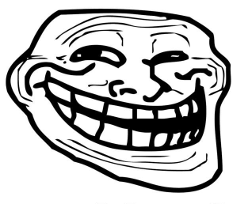
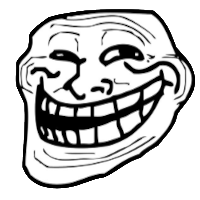
Use trollface glyph for spurious deadlock state of philosopher system

diff --git a/style/preamble-font.tex b/style/preamble-font.tex
@@ -28,3 +28,249 @@
 ]
 
 \DeclareMathAlphabet{\mathcal}{OMS}{cmsy}{m}{n}
+
+
+\newcommand{\trollface}{\resizebox{1.3\fontcharht\font`X}{1.3\fontcharwd\font`X}{%
+\begin{tikzpicture}[y=1pt, x=1pt,yscale=-1, inner sep=0pt, outer sep=0pt]
+\path[fill=black,even odd rule] (186.5230,42.6290) .. controls
+  (181.3770,46.8210) and (177.2520,52.0360) .. (177.1840,61.3090) .. controls
+  (173.4610,53.8470) and (177.9210,43.3950) .. (186.5230,42.6290) -- cycle;
+\path[fill=black,even odd rule] (123.9480,53.8360) .. controls
+  (131.6610,49.6690) and (133.9770,68.5560) .. (129.5520,73.4490) .. controls
+  (130.1610,64.4350) and (129.6880,56.5020) .. (123.9480,53.8360) -- cycle;
+\path[fill=black,even odd rule] (258.4390,84.6570) .. controls
+  (251.9670,92.1160) and (243.0990,85.7280) .. (234.1560,84.6570) .. controls
+  (214.8650,82.3460) and (196.3430,90.9360) .. (182.7880,96.7990) .. controls
+  (152.3050,81.2930) and (190.8780,59.8650) .. (221.0810,61.3090) .. controls
+  (241.5710,62.2870) and (255.3680,71.4410) .. (258.4390,84.6570) --
+  cycle(206.1380,68.7800) .. controls (196.6960,73.9690) and (181.3370,73.2430)
+  .. (180.9200,87.4590) .. controls (194.1550,88.2420) and (196.7990,78.4330) ..
+  (209.8730,79.0540) .. controls (208.5950,75.6620) and (209.3090,70.2780) ..
+  (206.1380,68.7800) -- cycle(249.1000,80.9220) .. controls (248.1190,76.6100)
+  and (244.5910,74.8460) .. (238.8270,75.3180) .. controls (238.2690,81.1680)
+  and (246.1370,78.5920) .. (249.1000,80.9220) -- cycle;
+\path[fill=black,even odd rule] (135.1560,84.6570) .. controls
+  (139.6320,83.6130) and (143.7260,82.0440) .. (147.2980,84.6570) .. controls
+  (147.0140,91.5340) and (139.4010,91.0810) .. (135.1560,93.9970) .. controls
+  (135.1560,99.9120) and (135.1560,105.8270) .. (135.1560,111.7420) .. controls
+  (129.8970,116.4450) and (122.1800,118.6910) .. (118.3440,124.8180) .. controls
+  (121.4790,132.8890) and (127.0330,138.5440) .. (134.2210,142.5630) .. controls
+  (138.8510,142.3020) and (140.5480,137.0180) .. (145.4290,139.7610) .. controls
+  (138.6120,162.3790) and (120.0140,140.4880) .. (112.7400,131.3550) .. controls
+  (110.2100,132.5610) and (109.4200,135.5060) .. (105.2680,135.0910) .. controls
+  (105.7160,132.1530) and (103.9380,131.4400) .. (103.4000,129.4870) .. controls
+  (96.0960,131.2120) and (93.0790,137.2230) .. (83.7870,136.9590) .. controls
+  (100.7200,129.2980) and (112.9440,116.9280) .. (127.6830,107.0720) .. controls
+  (127.6830,102.7140) and (127.6830,98.3550) .. (127.6830,93.9970) .. controls
+  (115.4770,85.0330) and (89.1830,90.1570) .. (75.3810,82.7890) .. controls
+  (83.6980,60.8440) and (125.4950,70.6300) .. (135.1560,84.6570) --
+  cycle(88.4580,79.0540) .. controls (93.0320,80.8510) and (100.4610,79.8720) ..
+  (104.3350,78.1190) .. controls (99.7600,76.3220) and (92.3310,77.3020) ..
+  (88.4580,79.0540) -- cycle;
+\path[fill=black,even odd rule] (262.1750,78.1190) .. controls
+  (266.1280,76.3740) and (271.8460,80.8820) .. (278.0530,79.9870) .. controls
+  (278.0700,84.9570) and (269.8980,85.7630) .. (265.9110,83.7230) .. controls
+  (266.0380,81.0470) and (272.3220,84.5300) .. (272.4490,81.8550) .. controls
+  (269.2020,80.4330) and (264.6140,80.3510) .. (262.1750,78.1190) -- cycle;
+\path[fill=black,even odd rule] (71.6460,81.8550) .. controls
+  (48.4920,80.0360) and (22.9120,89.3230) .. (22.1460,111.7420) .. controls
+  (22.0350,114.9910) and (22.2010,122.2410) .. (24.9480,126.6850) .. controls
+  (29.3060,133.7360) and (40.2990,130.2490) .. (43.6270,139.7610) .. controls
+  (26.4310,135.6320) and (18.5280,125.8960) .. (20.2780,108.9400) .. controls
+  (22.7070,85.3990) and (45.7110,76.5680) .. (71.6460,81.8550) -- cycle;
+\path[fill=black,even odd rule] (335.0240,98.6670) .. controls
+  (328.5190,86.1820) and (314.4580,81.2520) .. (293.9290,82.7890) .. controls
+  (309.8870,79.1500) and (332.2580,83.1200) .. (335.0240,98.6670) -- cycle;
+\path[fill=black,even odd rule] (262.1750,87.4590) .. controls
+  (263.4210,84.8030) and (266.3280,88.1800) .. (267.7790,88.3940) .. controls
+  (266.4780,91.1060) and (263.1700,88.1290) .. (262.1750,87.4590) -- cycle;
+\path[fill=black,even odd rule] (219.2130,88.3940) .. controls
+  (228.9990,89.9850) and (233.5670,100.3980) .. (245.3640,101.4690) .. controls
+  (259.7920,102.7790) and (267.3080,92.6370) .. (279.9210,89.3270) .. controls
+  (314.2440,80.3190) and (342.0750,112.2860) .. (316.3460,139.7620) .. controls
+  (312.1960,130.4970) and (320.4280,125.8410) .. (319.1480,114.5440) .. controls
+  (317.6560,101.3880) and (305.0200,92.5910) .. (290.1950,94.9310) .. controls
+  (285.2060,95.7190) and (280.8230,101.1010) .. (275.2520,103.3370) .. controls
+  (255.1770,111.3950) and (219.5950,110.7840) .. (219.2130,88.3940) -- cycle;
+\path[fill=black,even odd rule] (45.4950,90.2610) .. controls
+  (42.3020,96.1040) and (28.5930,99.5050) .. (33.3530,116.4120) .. controls
+  (28.6240,112.2490) and (33.6510,103.5000) .. (32.4190,96.7990) .. controls
+  (36.9290,94.7710) and (41.1020,92.4060) .. (45.4950,90.2610) -- cycle;
+\path[fill=black,even odd rule] (84.7220,108.0070) .. controls
+  (88.8510,106.8440) and (89.8150,102.5150) .. (95.9300,103.3370) .. controls
+  (99.8760,115.4730) and (84.1750,115.7950) .. (72.5810,115.4790) .. controls
+  (71.5810,110.8750) and (69.6390,107.2120) .. (66.0430,105.2050) .. controls
+  (55.3470,104.1610) and (49.0010,107.4650) .. (39.8920,108.0080) .. controls
+  (44.8020,88.7320) and (76.0790,99.0260) .. (84.7220,108.0070) -- cycle;
+\path[fill=black,even odd rule] (313.5430,127.6200) .. controls
+  (308.5690,129.4390) and (304.6380,127.2380) .. (299.5340,126.6850) .. controls
+  (296.2380,129.2760) and (293.4220,135.3040) .. (295.7980,140.6950) .. controls
+  (283.8630,150.9330) and (275.9310,169.7570) .. (264.0430,182.7230) .. controls
+  (234.6970,214.7360) and (183.6470,228.5980) .. (117.4100,225.6860) .. controls
+  (95.9890,224.7450) and (71.0460,222.4130) .. (60.4380,211.6760) .. controls
+  (43.6320,194.6670) and (42.8320,141.9400) .. (57.6360,121.0810) .. controls
+  (59.0730,118.1590) and (57.2280,111.9560) .. (60.4380,110.8080) .. controls
+  (67.8970,113.3780) and (63.8270,124.2490) .. (66.0420,130.4210) .. controls
+  (70.6570,143.2850) and (96.3870,151.5800) .. (114.6080,153.7710) .. controls
+  (182.9370,161.9820) and (240.6520,126.1850) .. (285.5240,110.8080) .. controls
+  (286.8670,107.4810) and (286.4780,102.4220) .. (289.2600,100.5350) .. controls
+  (294.8400,102.4830) and (292.5530,107.1600) .. (294.8640,110.8080) .. controls
+  (299.9820,118.8930) and (312.2430,119.4850) .. (313.5430,127.6200) --
+  cycle(256.5710,133.2240) .. controls (256.5710,137.8940) and
+  (256.5710,142.5640) .. (256.5710,147.2340) .. controls (274.1010,144.2160) and
+  (289.2540,138.8220) .. (290.1940,119.2140) .. controls (274.7910,119.6880) and
+  (268.9450,129.7200) .. (256.5710,133.2240) -- cycle(57.6360,143.4970) ..
+  controls (59.9280,143.2360) and (61.9410,137.9240) .. (60.4380,136.9590) ..
+  controls (59.6630,139.2970) and (57.8790,140.6280) .. (57.6360,143.4970) --
+  cycle(205.2030,149.1020) .. controls (205.1680,155.3640) and
+  (207.5990,159.1590) .. (208.0050,164.9790) .. controls (223.7610,158.0080) and
+  (247.7210,159.2420) .. (249.1000,137.8940) .. controls (235.1800,138.6090) and
+  (220.1700,146.3200) .. (205.2030,149.1020) -- cycle(66.9760,166.8470) ..
+  controls (67.8590,159.9310) and (72.0280,150.7120) .. (67.9100,144.4320) ..
+  controls (64.8520,149.0080) and (57.2650,163.7120) .. (66.9760,166.8470) --
+  cycle(257.5050,174.3180) .. controls (259.8780,172.3290) and
+  (263.2370,170.8490) .. (265.9110,167.7800) .. controls (269.5100,163.6490) and
+  (276.6900,150.9880) .. (275.2510,150.9680) .. controls (264.4210,152.7880) and
+  (248.8670,162.0370) .. (257.5050,174.3180) -- cycle(77.2500,170.5820) ..
+  controls (81.8400,169.1510) and (85.3880,173.5910) .. (87.5240,171.5170) ..
+  controls (84.1720,165.9570) and (90.7970,162.3580) .. (90.3260,156.5740) ..
+  controls (84.8320,156.4640) and (82.4630,153.2290) .. (78.1840,151.9040) ..
+  controls (73.1060,155.9740) and (76.7130,164.2210) .. (77.2500,170.5820) --
+  cycle(195.8630,152.8370) .. controls (184.6230,155.6070) and
+  (172.2560,157.2490) .. (161.3060,160.3090) .. controls (161.3060,164.9790) and
+  (161.3060,169.6490) .. (161.3060,174.3190) .. controls (177.4140,175.4840) and
+  (188.1850,171.3110) .. (200.5330,168.7150) .. controls (199.4780,162.9210) and
+  (199.4950,156.0550) .. (195.8630,152.8370) -- cycle(94.0610,171.5170) ..
+  controls (102.0880,173.7640) and (111.3050,174.8210) .. (122.0800,174.3190) ..
+  controls (121.4640,169.8440) and (123.0400,164.0500) .. (122.0800,162.1770) ..
+  controls (113.6500,161.2670) and (103.9510,161.6260) .. (97.7970,158.4420) ..
+  controls (96.5510,162.7990) and (96.3510,168.2020) .. (94.0610,171.5170) --
+  cycle(131.4200,162.1770) .. controls (131.6440,167.0710) and
+  (129.1470,169.2430) .. (128.6180,173.3850) .. controls (135.5560,175.4760) and
+  (146.2990,173.7610) .. (154.7690,174.3190) .. controls (154.7690,169.6490) and
+  (154.7690,164.9790) .. (154.7690,160.3090) .. controls (145.9280,159.8740) and
+  (140.7430,163.0940) .. (131.4200,162.1770) -- cycle(211.7410,178.0550) ..
+  controls (210.4210,189.9590) and (217.7640,193.2010) .. (219.2130,202.3380) ..
+  controls (232.4160,197.1720) and (241.9620,188.3510) .. (252.8360,180.8570) ..
+  controls (247.5230,178.3850) and (247.9630,170.1630) .. (246.2980,164.0450) ..
+  controls (236.3020,170.2380) and (224.6830,174.8070) .. (211.7410,178.0550) --
+  cycle(168.7780,190.1960) .. controls (168.0510,199.3280) and
+  (170.0950,205.6890) .. (169.7120,214.4780) .. controls (187.7230,215.6780) and
+  (199.0090,210.1530) .. (211.7410,206.0730) .. controls (209.4850,196.8090) and
+  (203.6060,191.1700) .. (203.3350,179.9220) .. controls (193.1930,184.7240) and
+  (182.5080,188.9810) .. (168.7780,190.1960) -- cycle(66.0420,203.2710) ..
+  controls (65.9030,195.9380) and (62.2210,192.1490) .. (58.5700,188.3280) ..
+  controls (60.1730,194.1960) and (62.3150,199.5260) .. (66.0420,203.2710) --
+  cycle(83.7880,211.6770) .. controls (81.6570,203.8460) and (79.4550,196.0850)
+  .. (72.5800,192.9980) .. controls (72.0370,198.2100) and (75.3710,199.5460) ..
+  (75.3820,204.2050) .. controls (74.8020,207.4170) and (70.3580,206.0980) ..
+  (69.7780,207.0070) .. controls (73.0720,209.9390) and (78.5480,210.6890) ..
+  (83.7880,211.6770) -- cycle(133.2880,195.8000) .. controls (133.3440,203.8380)
+  and (136.3930,208.8840) .. (136.0900,217.2810) .. controls (144.8000,216.9630)
+  and (154.9630,218.0960) .. (162.2410,216.3460) .. controls (161.9570,212.0840)
+  and (160.6930,201.2210) .. (161.3070,192.9970) .. controls (152.8320,194.8520)
+  and (141.9890,197.0030) .. (133.2880,195.8000) -- cycle(92.1930,212.6110) ..
+  controls (95.7960,213.9890) and (99.2500,215.5160) .. (104.3350,215.4130) ..
+  controls (103.0850,209.1910) and (98.9260,205.8780) .. (98.7310,198.6010) ..
+  controls (93.8100,198.5410) and (91.8760,195.4940) .. (86.5890,195.7990) ..
+  controls (87.4560,202.1920) and (94.9240,205.5740) .. (92.1930,212.6110) --
+  cycle(106.2030,197.6680) .. controls (107.8940,204.6930) and
+  (112.1030,209.2020) .. (113.6750,216.3470) .. controls (118.0900,216.6280) and
+  (125.5740,218.7360) .. (129.5520,216.3470) .. controls (128.6800,203.5710) and
+  (121.5510,192.9510) .. (106.2030,197.6680) -- cycle;
+\path[fill=black,even odd rule] (197.7310,121.0820) .. controls
+  (198.7120,132.7370) and (196.2330,144.5570) .. (184.6560,140.6950) .. controls
+  (183.4110,132.5700) and (193.0760,132.9910) .. (191.1930,126.6850) .. controls
+  (189.4350,120.7980) and (181.5510,124.0340) .. (174.3820,121.0810) .. controls
+  (176.0420,109.8510) and (193.8450,115.8040) .. (197.7310,121.0820) -- cycle;
+\path[fill=black,even odd rule] (200.5330,115.4790) .. controls
+  (204.4700,115.3180) and (201.1740,117.5700) .. (200.5330,118.2810) .. controls
+  (203.9060,128.7760) and (224.3770,116.4100) .. (228.5530,125.7530) .. controls
+  (220.2110,119.9870) and (196.2170,130.8070) .. (200.5330,115.4790) -- cycle;
+\path[fill=black,even odd rule] (31.4850,117.3460) .. controls
+  (35.1880,120.4920) and (37.8990,124.6310) .. (42.6930,126.6860) .. controls
+  (37.0450,129.1980) and (31.9330,123.1410) .. (31.4850,117.3460) -- cycle;
+\path[fill=black,even odd rule] (180.9200,129.4870) .. controls
+  (180.7300,132.4100) and (181.5500,136.3430) .. (179.9860,137.8930) .. controls
+  (174.0290,133.1600) and (163.2140,138.0600) .. (154.7690,135.0910) .. controls
+  (155.7830,124.9850) and (172.8760,127.2090) .. (180.9200,129.4870) -- cycle;
+\path[fill=black,even odd rule] (258.4390,207.0070) .. controls
+  (259.6460,209.1990) and (251.8250,210.0340) .. (248.1660,211.6770) .. controls
+  (221.0230,223.8620) and (191.6300,245.8770) .. (151.0330,242.4980) .. controls
+  (197.2180,241.0510) and (221.2870,217.4870) .. (258.4390,207.0070) -- cycle;
+\path[fill=black,even odd rule] (65.1080,225.6870) .. controls
+  (74.4620,238.4370) and (92.9790,242.0240) .. (113.6740,243.4320) .. controls
+  (93.8120,244.9240) and (68.5880,243.6900) .. (65.1080,225.6870) -- cycle;
+\path[fill=black,even odd rule] (161.3070,232.2250) .. controls
+  (147.9730,232.8420) and (127.4930,235.8070) .. (112.7410,233.1590) .. controls
+  (113.5640,233.3060) and (107.4200,234.1800) .. (110.8730,232.2250) .. controls
+  (128.2930,233.0280) and (146.3320,230.9210) .. (161.3070,232.2250) -- cycle;
+\path[fill=black,even odd rule] (127.6840,243.4320) .. controls
+  (131.1270,241.2720) and (138.5660,243.1070) .. (143.5610,242.4980) .. controls
+  (140.1180,244.6580) and (132.6790,242.8230) .. (127.6840,243.4320) -- cycle;
+\path[fill=black,even odd rule] (38.0230,42.6290) .. controls (82.5390,0.2510)
+  and (168.4500,6.1510) .. (250.9680,7.1380) .. controls (258.8160,7.2320) and
+  (267.6870,5.7700) .. (274.3170,7.1380) .. controls (286.1880,9.5890) and
+  (299.5410,24.1610) .. (306.0720,35.1580) .. controls (310.9170,43.3120) and
+  (313.1390,55.1730) .. (317.2800,62.2430) .. controls (330.3650,84.5890) and
+  (363.7570,90.1510) .. (354.6380,129.4880) .. controls (350.3990,147.7790) and
+  (330.9450,155.1810) .. (321.0150,173.3850) .. controls (317.4380,179.9440) and
+  (316.7720,187.3410) .. (313.5430,192.9980) .. controls (301.1180,214.7730) and
+  (268.7750,231.0160) .. (241.6280,243.4320) .. controls (220.9940,252.8700) and
+  (198.3130,267.1020) .. (179.0520,272.3850) .. controls (166.3570,275.8670) and
+  (147.5010,278.7970) .. (128.6170,282.6580) .. controls (101.5110,288.2020) and
+  (70.6950,290.9440) .. (49.2300,281.7240) .. controls (38.0840,276.9370) and
+  (25.4570,265.4370) .. (23.0790,254.6390) .. controls (17.5010,229.3100) and
+  (34.1810,186.6860) .. (26.8150,156.5730) .. controls (21.7590,135.9030) and
+  (3.9090,121.6480) .. (10.0030,95.8650) .. controls (15.1720,74.0010) and
+  (40.4630,75.0640) .. (38.0230,42.6290) -- cycle(346.2320,130.4220) .. controls
+  (356.6420,101.6040) and (332.1320,76.8320) .. (298.5990,78.1190) .. controls
+  (304.7890,76.0110) and (311.4390,78.0850) .. (318.2120,78.1190) .. controls
+  (301.9840,58.2020) and (298.0540,17.1590) .. (264.0420,13.6760) .. controls
+  (216.9920,8.8570) and (155.8050,15.1380) .. (110.8720,19.2800) .. controls
+  (142.1830,27.4840) and (175.9850,13.4080) .. (208.9390,16.4780) .. controls
+  (239.3500,19.3120) and (260.6870,37.8100) .. (277.1190,51.9690) .. controls
+  (257.8750,41.2170) and (237.7900,21.1210) .. (208.0050,18.3460) .. controls
+  (183.2390,16.0380) and (165.7270,22.7740) .. (144.4950,23.9500) .. controls
+  (127.4810,24.8920) and (109.8000,20.5540) .. (94.9950,22.0820) .. controls
+  (77.6030,23.8780) and (47.9860,38.7270) .. (43.6270,51.9700) .. controls
+  (42.0390,56.7930) and (43.7690,62.7160) .. (41.7590,67.8470) .. controls
+  (34.6190,86.0780) and (9.3930,91.1260) .. (18.4100,122.0170) .. controls
+  (20.9200,130.6170) and (27.7020,135.5720) .. (30.5520,141.6310) .. controls
+  (38.9450,159.4780) and (35.5640,188.2320) .. (33.3540,209.8110) .. controls
+  (31.9730,223.2950) and (27.9960,238.8790) .. (30.5520,251.8390) .. controls
+  (37.3950,286.5250) and (104.0000,281.3020) .. (136.0910,273.3200) .. controls
+  (147.5600,270.4660) and (157.6800,265.1130) .. (166.9120,263.9800) .. controls
+  (170.9690,263.4820) and (175.3540,265.1670) .. (181.8560,263.9800) .. controls
+  (191.0090,262.3080) and (203.8080,252.5830) .. (214.5440,247.1680) .. controls
+  (246.4100,231.0990) and (289.5540,216.8260) .. (307.0070,189.2620) .. controls
+  (311.4680,182.2160) and (313.1470,170.7890) .. (316.3470,164.9790) .. controls
+  (318.5940,160.8990) and (324.7580,160.0830) .. (323.8190,154.7060) .. controls
+  (324.2180,156.2110) and (320.3370,157.8400) .. (320.0830,155.6400) .. controls
+  (331.4360,150.5690) and (342.5940,140.4950) .. (346.2320,130.4220) -- cycle;
+\path[fill=black,even odd rule] (77.2500,36.0910) .. controls
+  (84.6910,22.9450) and (107.2240,33.1150) .. (124.8820,33.2890) .. controls
+  (150.9490,33.5470) and (176.6190,25.1470) .. (200.5330,26.7510) .. controls
+  (229.3460,28.6840) and (255.4970,42.3890) .. (269.6470,59.4400) .. controls
+  (251.0790,44.9400) and (224.3560,28.4240) .. (188.3910,28.6190) .. controls
+  (169.3380,28.7230) and (149.8110,36.2530) .. (124.8810,35.1570) .. controls
+  (106.1230,34.3320) and (89.2790,27.8450) .. (77.2500,36.0910) -- cycle;
+\path[fill=black,even odd rule] (182.7880,39.8270) .. controls
+  (180.4770,39.9450) and (181.2000,38.6830) .. (182.7880,38.8920) .. controls
+  (214.8340,36.0440) and (246.6730,40.8290) .. (257.5050,62.2420) .. controls
+  (243.3820,43.9870) and (216.2760,38.7170) .. (182.7880,39.8270) -- cycle;
+\path[fill=black,even odd rule] (134.2220,48.2320) .. controls
+  (116.5830,42.4210) and (80.0680,39.9560) .. (74.4480,61.3080) .. controls
+  (71.7860,48.3020) and (92.6910,40.9070) .. (112.7400,41.6940) .. controls
+  (120.7850,42.0110) and (131.5240,42.7730) .. (134.2220,48.2320) -- cycle;
+\path[fill=black,even odd rule] (315.4110,148.1670) .. controls
+  (334.4690,145.0120) and (338.3490,122.0640) .. (335.0240,99.6010) .. controls
+  (340.8540,112.7940) and (335.5300,126.2080) .. (334.0900,139.7620) .. controls
+  (328.2670,142.9670) and (324.5500,148.2770) .. (315.4110,148.1670) -- cycle;
+\path[fill=black,even odd rule] (47.3630,228.4880) .. controls
+  (49.4920,229.7830) and (47.7110,234.9890) .. (48.2970,237.8280) .. controls
+  (83.8900,267.4720) and (165.4050,250.6590) .. (207.0710,236.8940) .. controls
+  (232.9420,228.3470) and (255.0540,213.7040) .. (278.9860,207.0060) .. controls
+  (240.0480,233.7560) and (154.7340,260.6540) .. (83.7870,255.5720) .. controls
+  (67.1820,254.3840) and (43.7210,247.9240) .. (47.3630,228.4880) -- cycle;
+\end{tikzpicture}}}

diff --git a/style/macros.md b/style/macros.md
@@ -52,7 +52,7 @@
 \providecommand{\failures}[1]{\mathsf{Failures}(#1)}
 \providecommand{\derivatives}[1]{\operatorname{Der}(#1)}
 \providecommand{\initials}[1]{\operatorname{Ini}(#1)}
-\providecommand{\troll}{$\vcenter{\hbox{\includegraphics[height=\fontcharht\font`\/]{img/trollface.png}}}$}
+\providecommand{\troll}{\vcenter{\hbox{\trollface}}}
 
 \lc{ Grammars }
 

diff --git a/style/macros-html.md b/style/macros-html.md
@@ -10,3 +10,5 @@
 \providecommand{\ngamemove}[1]{\mathrel{\smash{{›/\!\!\!\!\frac{\;#1\;}{\;}\!\!›}}}}
 
 \providecommand{\nostep}[1]{\cancel{\xrightarrow{\smash{\raisebox{-2pt}{$\scriptstyle{#1}$}}}}}
+
+\providecommand{\troll}{\includegraphics[height=1em, alt=q3]{img/trollface.png}}
